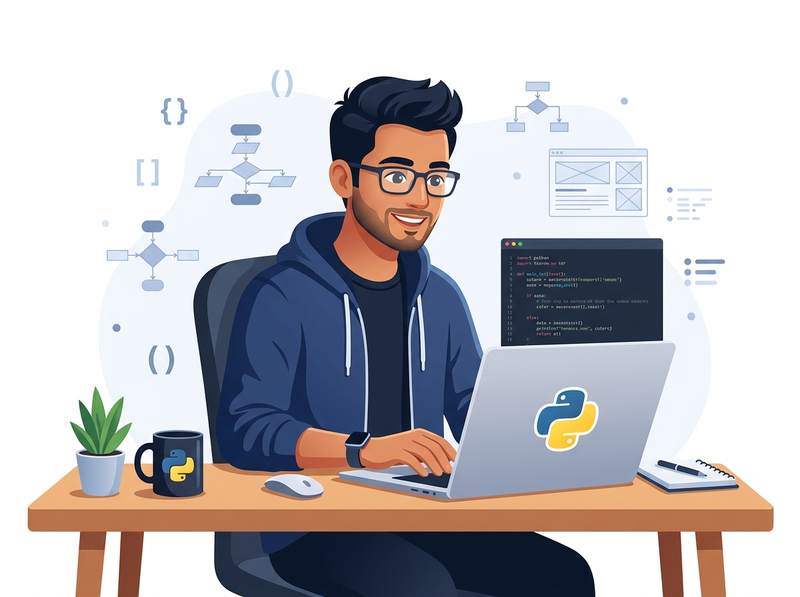
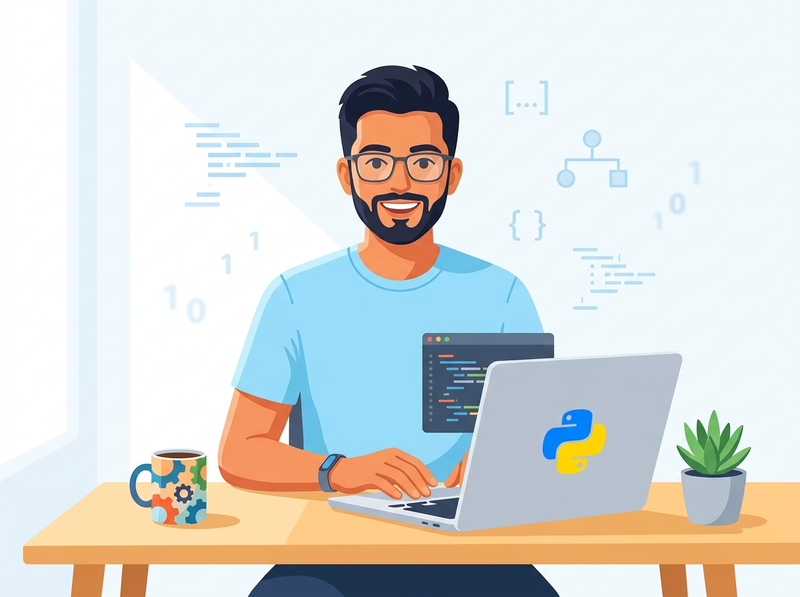
feat: bright developer illustration, balanced layout with connect badges under image, and LeetCode stats card

diff --git a/README.md b/README.md
@@ -1,24 +1,15 @@
 <table>
   <tr>
-    <td valign="top" width="58%">
+    <td valign="top" width="56%">
       <h1>Hi 👋, I'm Muppalla Yasaswa Brahmam</h1>
       <h3>A passionate Software Engineer from India 🇮🇳</h3>
       <p>
         <a href="https://github.com/yasaswabrahmam"><img src="https://komarev.com/ghpvc/?username=yasaswabrahmam&label=Profile%20Views&color=0e75b6&style=flat-square" alt="Profile Views" /></a>
       </p>
       <p>
-        🎓 <b>B.Tech in Computer Science & Engineering (AI & ML)</b> @ <b>Kalasalingam Academy of Research and Education</b><br>
-        🔭 <b>Focus:</b> Backend Engineering, High-Performance Caching, RESTful APIs & Data Structures<br>
-        🧠 <b>Problem Solving:</b> Solved <b>180+ problems on LeetCode</b> | <b>CodeChef 2-Star Competitor</b> | Active on <b>Codeforces</b>
-      </p>
-      <br>
-      <h4>Connect with me:</h4>
-      <p>
-        <a href="https://linkedin.com/in/yasaswa-brahmam" target="_blank"><img src="https://img.shields.io/badge/LinkedIn-0077B5?style=flat-square&logo=linkedin&logoColor=white" alt="LinkedIn" /></a> &nbsp;
-        <a href="https://leetcode.com/yasaswabrahmam" target="_blank"><img src="https://img.shields.io/badge/LeetCode-FFA116?style=flat-square&logo=leetcode&logoColor=black" alt="LeetCode" /></a> &nbsp;
-        <a href="https://www.codechef.com/users/yasaswabrahmam" target="_blank"><img src="https://img.shields.io/badge/CodeChef-5B4638?style=flat-square&logo=codechef&logoColor=white" alt="CodeChef" /></a> &nbsp;
-        <a href="https://codeforces.com/profile/yasaswabrahmam" target="_blank"><img src="https://img.shields.io/badge/Codeforces-445f9d?style=flat-square&logo=codeforces&logoColor=white" alt="Codeforces" /></a> &nbsp;
-        <a href="mailto:yasaswabrahmammuppalla@gmail.com"><img src="https://img.shields.io/badge/Email-D14836?style=flat-square&logo=gmail&logoColor=white" alt="Email" /></a>
+        🎓 <b>B.Tech in Computer Science & Engineering (AI & ML)</b> @ <b>Kalasalingam Academy</b><br>
+        🔭 <b>Core Focus:</b> Backend Engineering, High-Performance Caching & Distributed Systems<br>
+        🧠 <b>Problem Solving:</b> Solved <b>180+ problems on LeetCode</b> | <b>CodeChef 2-Star Competitor</b>
       </p>
       <br>
       <h4>Languages and Tools:</h4>
@@ -27,7 +18,7 @@
         <img src="https://raw.githubusercontent.com/devicons/devicon/master/icons/cplusplus/cplusplus-original.svg" alt="cplusplus" width="36" height="36"/> &nbsp;
         <img src="https://raw.githubusercontent.com/devicons/devicon/master/icons/java/java-original.svg" alt="java" width="36" height="36"/> &nbsp;
         <img src="https://raw.githubusercontent.com/devicons/devicon/master/icons/c/c-original.svg" alt="c" width="36" height="36"/> &nbsp;
-        <img src="https://raw.githubusercontent.com/devicons/devicon/master/icons/postgresql/postgresql-original.svg" alt="postgresql" width="36" height="36"/> &nbsp;
+        <img src="https://raw.githubusercontent.com/devicons/devicon/master/icons/postgresql/postgresql-original.svg" alt="postgresql" width="36" height="36"/> <br><br>
         <img src="https://raw.githubusercontent.com/devicons/devicon/master/icons/fastapi/fastapi-original.svg" alt="fastapi" width="36" height="36"/> &nbsp;
         <img src="https://raw.githubusercontent.com/devicons/devicon/master/icons/docker/docker-original.svg" alt="docker" width="36" height="36"/> &nbsp;
         <img src="https://raw.githubusercontent.com/devicons/devicon/master/icons/redis/redis-original.svg" alt="redis" width="36" height="36"/> &nbsp;
@@ -35,8 +26,19 @@
         <img src="https://raw.githubusercontent.com/devicons/devicon/master/icons/vscode/vscode-original.svg" alt="vscode" width="36" height="36"/>
       </p>
     </td>
-    <td valign="middle" align="center" width="42%">
-      <img src="./developer.gif" width="400" alt="Software Engineer at Work" style="border-radius: 12px;" />
+    <td valign="top" align="center" width="44%">
+      <img src="./developer.gif" width="370" alt="Software Engineer at Work" style="border-radius: 12px;" />
+      <br><br>
+      <div align="center">
+        <h4>Connect with me:</h4>
+        <p>
+          <a href="https://linkedin.com/in/yasaswa-brahmam" target="_blank"><img src="https://img.shields.io/badge/LinkedIn-0077B5?style=flat-square&logo=linkedin&logoColor=white" alt="LinkedIn" /></a> &nbsp;
+          <a href="https://leetcode.com/yasaswabrahmam" target="_blank"><img src="https://img.shields.io/badge/LeetCode-FFA116?style=flat-square&logo=leetcode&logoColor=black" alt="LeetCode" /></a> &nbsp;
+          <a href="https://www.codechef.com/users/yasaswabrahmam" target="_blank"><img src="https://img.shields.io/badge/CodeChef-5B4638?style=flat-square&logo=codechef&logoColor=white" alt="CodeChef" /></a> <br><br>
+          <a href="https://codeforces.com/profile/yasaswabrahmam" target="_blank"><img src="https://img.shields.io/badge/Codeforces-445f9d?style=flat-square&logo=codeforces&logoColor=white" alt="Codeforces" /></a> &nbsp;
+          <a href="mailto:yasaswabrahmammuppalla@gmail.com"><img src="https://img.shields.io/badge/Email-D14836?style=flat-square&logo=gmail&logoColor=white" alt="Email" /></a>
+        </p>
+      </div>
     </td>
   </tr>
 </table>
@@ -53,11 +55,12 @@
 
 ---
 
-### 📊 GitHub & Problem Solving Stats
+### 📊 Problem Solving & Language Stats
 
 <p align="center">
-  <img src="https://github-readme-stats.vercel.app/api?username=yasaswabrahmam&show_icons=true&theme=tokyonight&hide_border=true&count_private=true" alt="Yasaswa's GitHub Stats" />
-  <img src="https://github-readme-stats.vercel.app/api/top-langs/?username=yasaswabrahmam&layout=compact&theme=tokyonight&hide_border=true" alt="Top Languages" />
+  <img src="https://leetcard.jacoblin.cool/yasaswabrahmam?theme=light&font=source_code_pro" alt="Yasaswa's LeetCode Stats" />
+  &nbsp;&nbsp;
+  <img src="https://github-readme-stats.vercel.app/api/top-langs/?username=yasaswabrahmam&layout=compact&theme=default&hide_border=false" alt="Top Languages" />
 </p>
 
 ---
